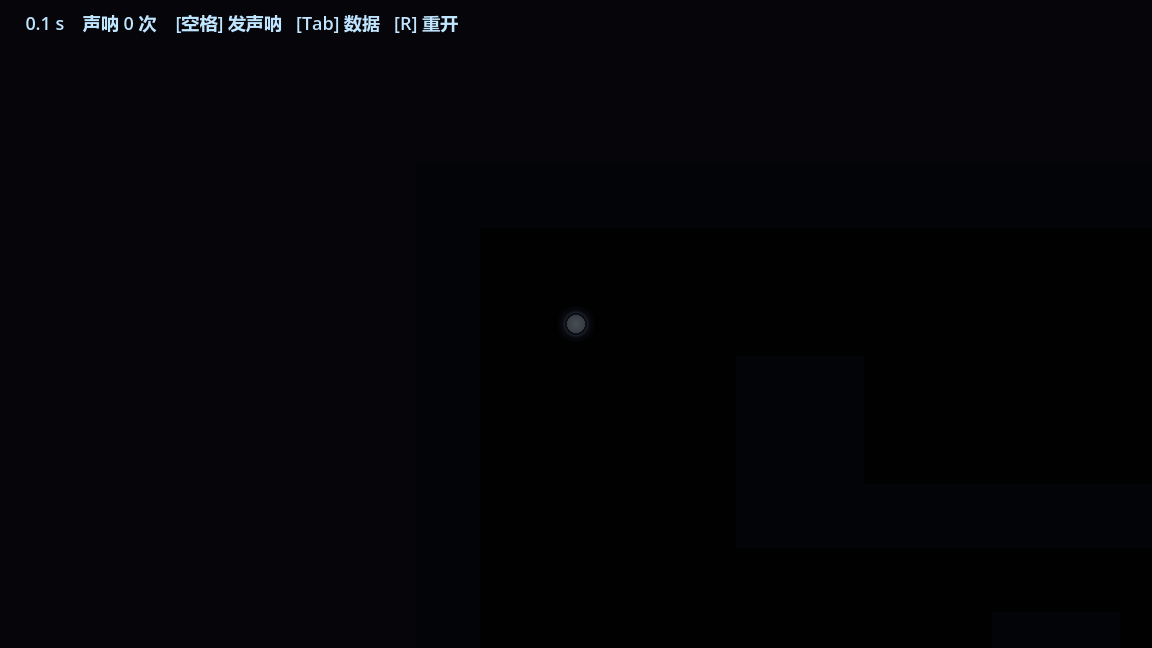
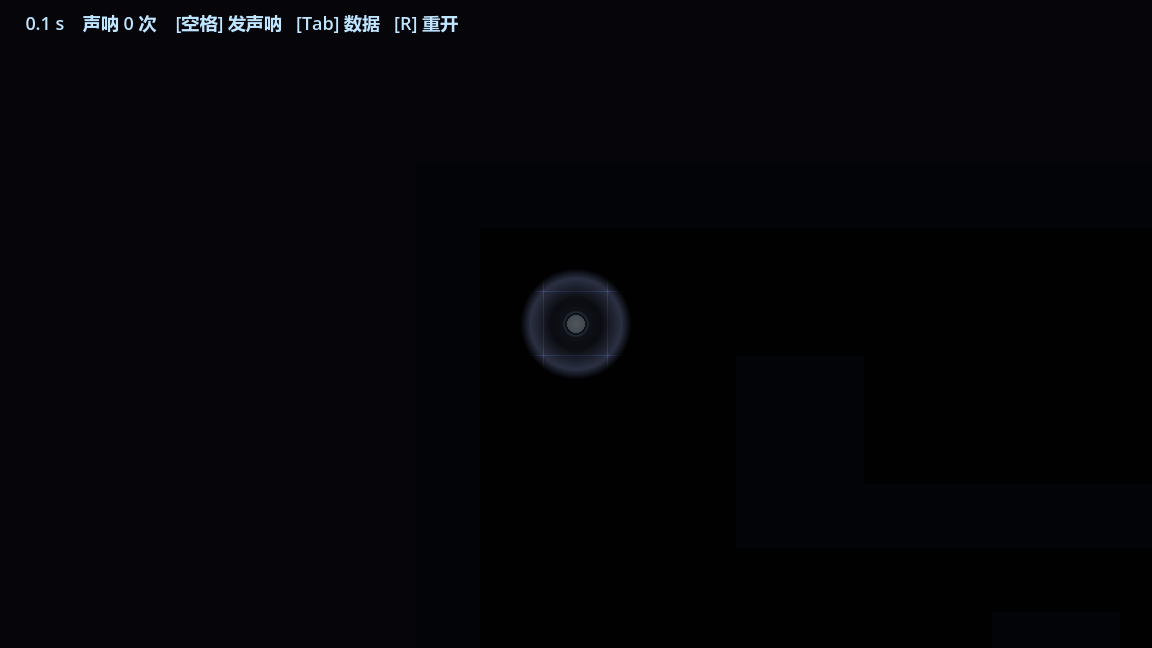
feat(light): 常亮光改成环状光圈，声呐改成向外推的波前环

Changed region(s): [[0.4375, 0.4012, 0.5625, 0.5864]]

diff --git a/README.md b/README.md
@@ -154,7 +154,8 @@ Godot_v4.7.2-stable_win64_console.exe --path <本目录> --script res://tools/ca
 | 位置 | 改动前 | 改动后 |
 |---|---|---|
 | `scenes/Level01.tscn` → CanvasModulate | 0.05 / 0.055 / 0.09 | 0.015 / 0.017 / 0.028 |
-| `scripts/player.gd` → `AMBIENT_RADIUS` / `AMBIENT_ENERGY` | 128 px / 0.9 | 40 px / 0.30 |
+| `scripts/player.gd` → `AMBIENT_RADIUS` / `AMBIENT_ENERGY` | 128 px / 0.9（径向光斑） | 56 px / 0.75（**环状**，半径处最亮） |
+| `scripts/sonar.gd` → 波前 | 一盏径向灯，中心最亮 | 两层：余辉 0.55 + 波前环 3.2（**向外推的环**） |
 
 **证据**（同一张图、同一位置、都没发声呐；数值是像素亮度 0–255）：
 
@@ -165,8 +166,19 @@ Godot_v4.7.2-stable_win64_console.exe --path <本目录> --script res://tools/ca
 
 声呐扩散中整屏均值 26.4 → 18.6（脉冲本身没动，少的只是环境光）。
 
+第二次反馈之后又改了形状：常亮光从"一团"改成"一圈"（中心留暗、半径处最亮），
+声呐拆成"很淡的余辉 + 一条向外推的亮环"。沿 +x 采样的亮度分布（0–255）：
+
+| 离玩家 (px) | 0 | 80 | 200 | 320 | 440 | 540 |
+|---|---|---|---|---|---|---|
+| 旧（径向） | 255 | 127 | 106 | 44 | 1 | 1 |
+| 新（波前环） | 173 | 24 | 21 | 24 | 54 | 75 |
+
+旧的是从中心一路衰减，新的是中间暗、外侧亮 —— 这才是"回声推出去"的样子。
+对照图：`_verify/compare_light.png`
+
 - 对照图：`_verify/compare_darkness.png`（上：改动前，下：改动后；左：没发声呐，右：声呐中）
 - 复现：`tools/darkness_shots.gd` 一次跑三档（A 原来的 / B 中间 / C 真黑），各拍两张
 - 注意：`tools/capture.gd` 已改成按真实时间卡点。之前按帧数拍，机器一忙就会在声呐还没灭的时候拍"结束"那一张。
 
-代价：现在看不见相邻的墙，只能靠撞和声呐。如果实机太难受，把 `AMBIENT_RADIUS` 调到 56–72 之间再试。
+代价：现在看不见相邻的墙，只能靠撞和声呐。嫌难受就把 `AMBIENT_RADIUS` 往 72 调、`AMBIENT_ENERGY` 往 1.0 调；嫌亮就往 40 / 0.5 调。
